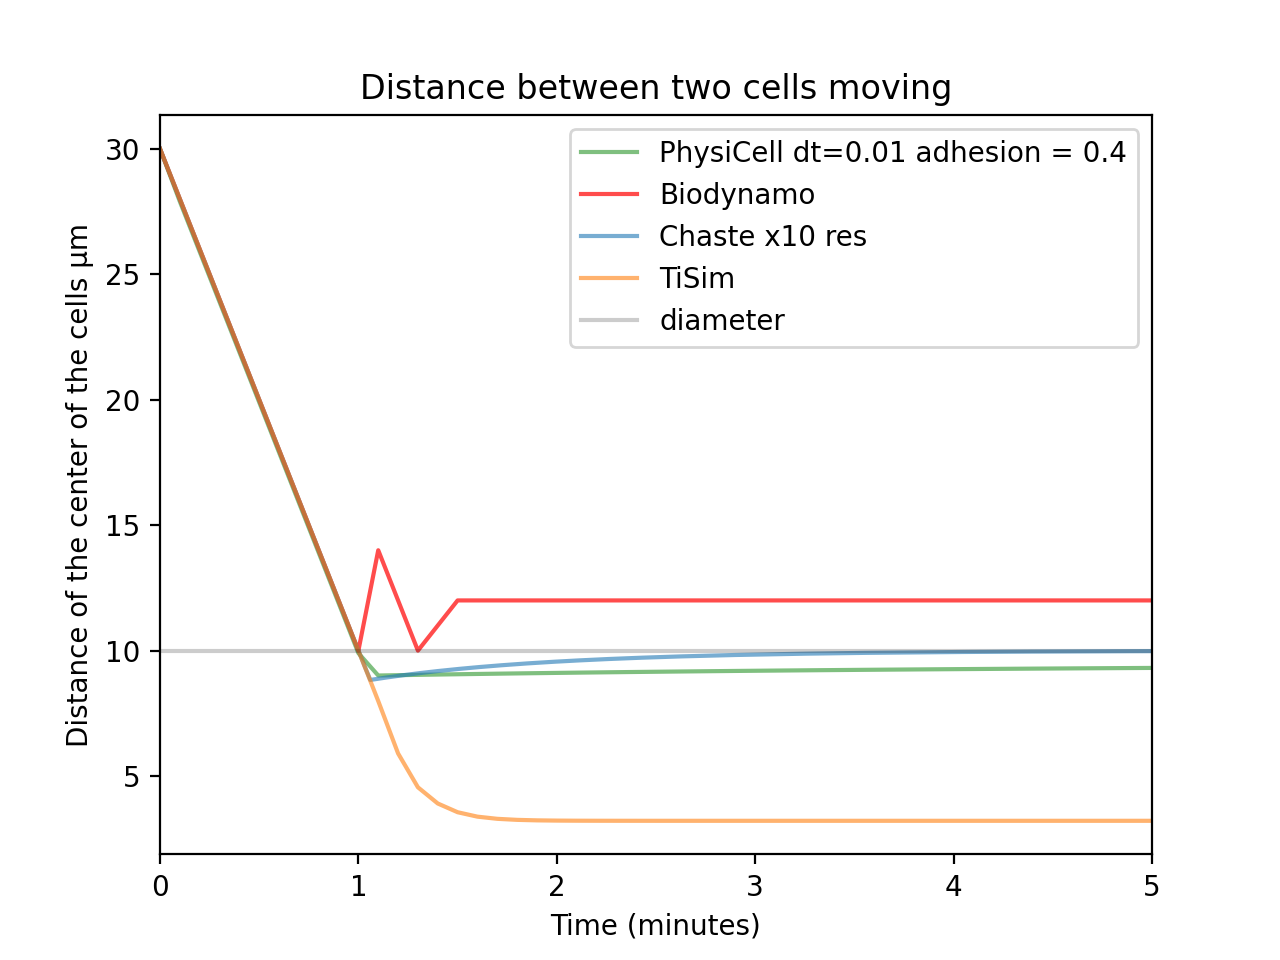
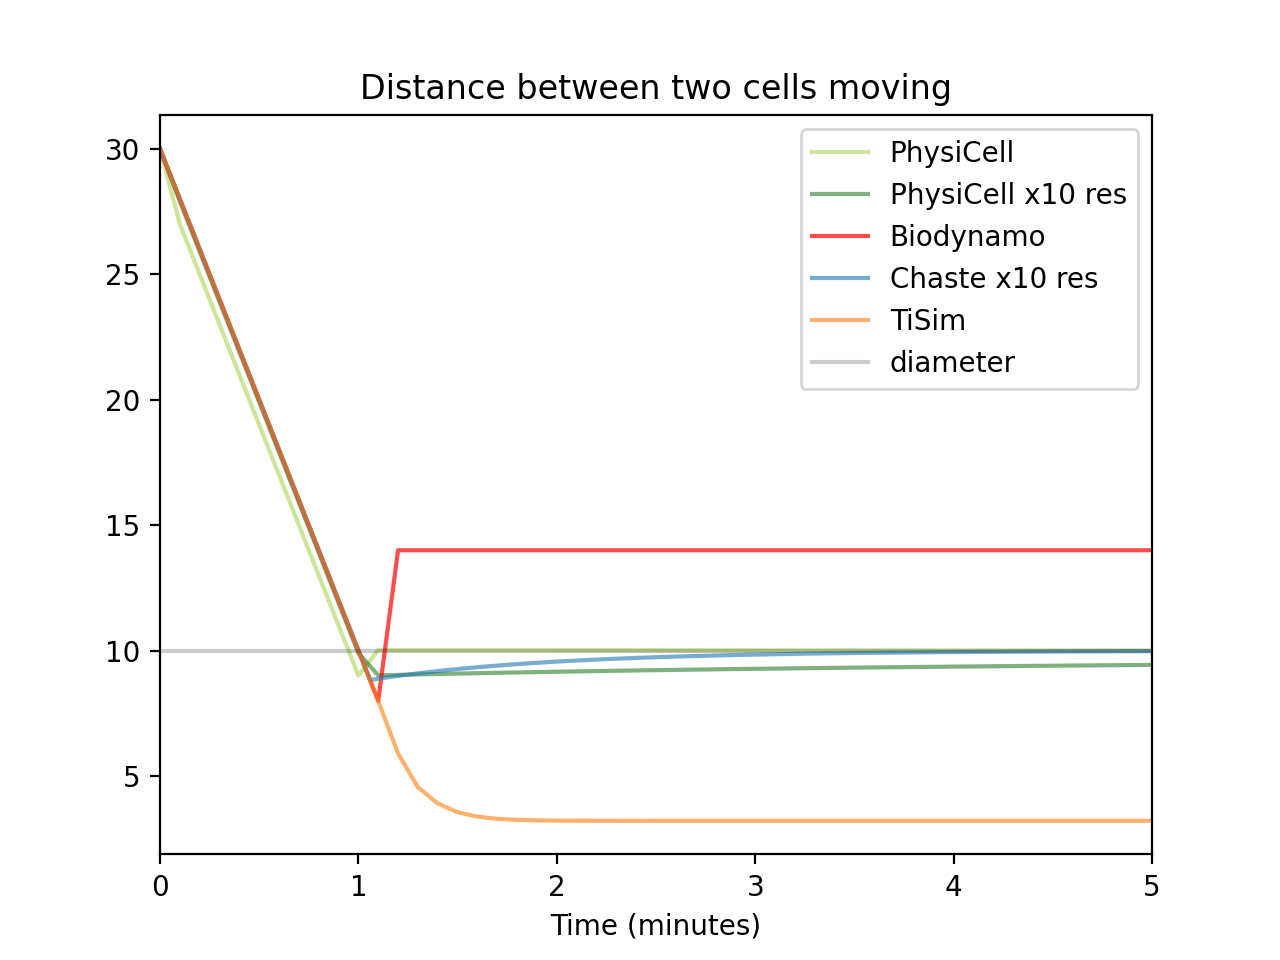
Adding new mechanics results from BDM and PC to the figure

diff --git a/ResultAnalysis/plot_scripts/plot_mechanics_pushing.py b/ResultAnalysis/plot_scripts/plot_mechanics_pushing.py
@@ -4,7 +4,7 @@ import numpy as np
 import os
 
 # Load data
-output_folder = "PhysiCell/results/mechanics_pushing/"
+output_folder = "PhysiCell/results/mechanics_pushing/mechanics_pushing_01_004/"
 df = pd.read_csv(output_folder + "cells_position_time.csv")
 x0 = df[df['id'] == 0]['x'].reset_index(drop=True)
 x1 = df[df['id'] == 1]['x'].reset_index(drop=True)
@@ -13,7 +13,16 @@ pc_dist_dt["dx"] = abs(x0 - x1)
 dt = df[df['id'] == 0]['dt'].reset_index(drop=True)
 pc_dist_dt["dt"] = dt
 
-file = "Biodynamo/unit_test_mechanics_pushing/results/positions.csv"
+output_folder = "PhysiCell/results/mechanics_pushing/mechanics_pushing_001_004/"
+df = pd.read_csv(output_folder + "cells_position_time.csv")
+x0 = df[df['id'] == 0]['x'].reset_index(drop=True)
+x1 = df[df['id'] == 1]['x'].reset_index(drop=True)
+pc_dist_dt2 = pd.DataFrame()
+pc_dist_dt2["dx"] = abs(x0 - x1)
+dt = df[df['id'] == 0]['dt'].reset_index(drop=True)
+pc_dist_dt2["dt"] = dt
+
+file = "Biodynamo/unit_test_mechanics_pushing/results_0.1/positions.csv"
 bd_dist = pd.read_csv(file, index_col=0, header=None, sep='\t|,', engine='python').rename(columns={1: "x1", 4: "x2"})
 new_row = pd.DataFrame([[-15, 0, 0, 15, 0, 0]], columns=bd_dist.columns)
 bd_dist = pd.concat([new_row, bd_dist], ignore_index=True)
@@ -25,13 +34,16 @@ ts_dist = pd.read_csv(file, index_col=None, header=0, names=['time', 'dx'])
 
 file = "Chaste/unit_test_mechanics_pushing/results/results.viznodelocations"
 ch_dist = pd.read_csv(file, header=None, sep='\t| ', index_col=0, engine='python')
-ch_dist['dx'] = abs(ch_dist[2] - ch_dist[1]) * 10
-ch_dist['dt'] = [x for x in np.arange(0, 10.01, 0.1)]
-ch_dist.index = ch_dist.index * 1000
+ch_dist['dx'] = abs(ch_dist[4] - ch_dist[1]) * 10
+# ch_dist['dt'] = [x for x in np.arange(0,10.01,0.1)]
+# ch_dist.index = ch_dist.index*1000
+ch_dist['dt'] = ch_dist.index * 60
+# ch_dist.index = ch_dist.index * 100
 
 # Set up colorblind-friendly colors and linestyles
 colors = {
-    'PhysiCell': '#4daf4a',   # Green
+    'PhysiCell': '#98FB98',   # Light Green
+    'PhysiCell2': '#4daf4a',   # Green
     'BioDynaMo': '#ff7f00',   # Orange (changed from red)
     'Chaste': '#377eb8',      # Blue
     'TiSim': '#984ea3',       # Purple
@@ -39,6 +51,7 @@ colors = {
 }
 linestyles = {
     'PhysiCell': '-',
+    'PhysiCell2': '-',
     'BioDynaMo': '-',
     'Chaste': '-',
     'TiSim': '-',
@@ -46,8 +59,9 @@ linestyles = {
 }
 labels = {
     'PhysiCell': 'PhysiCell',
+    'PhysiCell2': 'PhysiCell x10res',
     'BioDynaMo': 'BioDynaMo',
-    'Chaste': 'Chaste',
+    'Chaste': 'Chaste x10res',
     'TiSim': 'TiSim'
 }
 
@@ -179,35 +193,88 @@ plt.rcParams.update({
 # plt.close(fig2)
 
 # --- INDIVIDUAL NORMALIZED ZOOMED PLOT (First 3 min) ---
+# save_dir = "./ResultAnalysis/plots/mechanics_pushing_plots"
+# os.makedirs(save_dir, exist_ok=True)
+# cell_radius = 10.0
+
+# fig3, ax_norm_zoom = plt.subplots(figsize=(3, 2.8))
+# ax_norm_zoom.plot(bd_dist['dt'][bd_dist['dt'] <= 3], (bd_dist['dx'] / cell_radius)[bd_dist['dt'] <= 3], 
+#                   color=colors['BioDynaMo'],
+#                   linestyle=linestyles['BioDynaMo'], 
+#                   label=labels['BioDynaMo'], 
+#                   alpha=0.7)
+# ax_norm_zoom.plot(ch_dist['dt'][np.array(ch_dist['dt']) <= 3], (ch_dist['dx'] / cell_radius)[np.array(ch_dist['dt']) <= 3], 
+#                   color=colors['Chaste'], 
+#                   linestyle=linestyles['Chaste'], 
+#                   label=labels['Chaste'], 
+#                   alpha=0.7)
+# ax_norm_zoom.plot(pc_dist_dt['dt'][pc_dist_dt['dt'] <= 3], (pc_dist_dt['dx'] / cell_radius)[pc_dist_dt['dt'] <= 3], 
+#                   color=colors['PhysiCell'], 
+#                   linestyle=linestyles['PhysiCell'], 
+#                   label=labels['PhysiCell'],
+#                   alpha=0.7)
+# ax_norm_zoom.plot(pc_dist_dt2['dt'][pc_dist_dt2['dt'] <= 3], (pc_dist_dt2['dx'] / cell_radius)[pc_dist_dt2['dt'] <= 3], 
+#                   color=colors['PhysiCell2'], 
+#                   linestyle=linestyles['PhysiCell2'], 
+#                   label=labels['PhysiCell2'],
+#                   alpha=0.7)
+# ax_norm_zoom.plot(ts_dist["time"][ts_dist["time"] <= 3], (ts_dist['dx'] / cell_radius)[ts_dist["time"] <= 3], 
+#                   color=colors['TiSim'], 
+#                   linestyle=linestyles['TiSim'], 
+#                   label=labels['TiSim'], 
+#                   alpha=0.7)
+# ax_norm_zoom.axhline(1, color=colors['radius'], linestyle=linestyles['radius'], alpha=0.3)
+# ax_norm_zoom.set_ylabel("Distance / cell diam (μm)", labelpad=8, fontsize=12)
+# ax_norm_zoom.set_xlabel("Time (min)", labelpad=8, fontsize=12)
+# ax_norm_zoom.set_xlim(0, 3)
+# ax_norm_zoom.set_ylim(bottom=0)
+# ax_norm_zoom.spines['top'].set_visible(False)
+# ax_norm_zoom.spines['right'].set_visible(False)
+# ax_norm_zoom.grid(False)
+# ax_norm_zoom.tick_params(axis='both', which='major', labelsize=11)
+# ax_norm_zoom.legend(loc='upper right', bbox_to_anchor=(1, 1), fontsize=8)
+
+# plt.tight_layout()
+# plt.savefig(os.path.join(save_dir, "mechanics_movement_normalized_zoom3min.pdf"), format='pdf', bbox_inches='tight', pad_inches=0.1)
+# plt.savefig(os.path.join(save_dir, "mechanics_movement_normalized_zoom3min.svg"), format='svg', bbox_inches='tight', pad_inches=0.1)
+# plt.savefig(os.path.join(save_dir, "mechanics_movement_normalized_zoom3min.png"), dpi=600, bbox_inches='tight', pad_inches=0.1, format='png')
+# plt.close(fig3)
+
+# --- INDIVIDUAL NORMALIZED ZOOMED PLOT (First 5 min) ---
 save_dir = "./ResultAnalysis/plots/mechanics_pushing_plots"
 os.makedirs(save_dir, exist_ok=True)
 cell_radius = 10.0
 
-fig3, ax_norm_zoom = plt.subplots(figsize=(3, 2.8))
-ax_norm_zoom.plot(bd_dist['dt'][bd_dist['dt'] <= 3], (bd_dist['dx'] / cell_radius)[bd_dist['dt'] <= 3], 
+fig4, ax_norm_zoom = plt.subplots(figsize=(3, 2.8))
+ax_norm_zoom.plot(bd_dist['dt'][bd_dist['dt'] <= 5], (bd_dist['dx'] / cell_radius)[bd_dist['dt'] <= 5], 
                   color=colors['BioDynaMo'],
                   linestyle=linestyles['BioDynaMo'], 
                   label=labels['BioDynaMo'], 
                   alpha=0.7)
-ax_norm_zoom.plot(ch_dist['dt'][np.array(ch_dist['dt']) <= 3], (ch_dist['dx'] / cell_radius)[np.array(ch_dist['dt']) <= 3], 
+ax_norm_zoom.plot(ch_dist['dt'][np.array(ch_dist['dt']) <= 5], (ch_dist['dx'] / cell_radius)[np.array(ch_dist['dt']) <= 5], 
                   color=colors['Chaste'], 
                   linestyle=linestyles['Chaste'], 
                   label=labels['Chaste'], 
                   alpha=0.7)
-ax_norm_zoom.plot(ts_dist["time"][ts_dist["time"] <= 3], (ts_dist['dx'] / cell_radius)[ts_dist["time"] <= 3], 
-                  color=colors['TiSim'], 
-                  linestyle=linestyles['TiSim'], 
-                  label=labels['TiSim'], 
-                  alpha=0.7)
-ax_norm_zoom.plot(pc_dist_dt['dt'][pc_dist_dt['dt'] <= 3], (pc_dist_dt['dx'] / cell_radius)[pc_dist_dt['dt'] <= 3], 
+ax_norm_zoom.plot(pc_dist_dt['dt'][pc_dist_dt['dt'] <= 5], (pc_dist_dt['dx'] / cell_radius)[pc_dist_dt['dt'] <= 5], 
                   color=colors['PhysiCell'], 
                   linestyle=linestyles['PhysiCell'], 
                   label=labels['PhysiCell'],
                   alpha=0.7)
+ax_norm_zoom.plot(pc_dist_dt2['dt'][pc_dist_dt2['dt'] <= 5], (pc_dist_dt2['dx'] / cell_radius)[pc_dist_dt2['dt'] <= 5], 
+                  color=colors['PhysiCell2'], 
+                  linestyle=linestyles['PhysiCell2'], 
+                  label=labels['PhysiCell2'],
+                  alpha=0.7)
+ax_norm_zoom.plot(ts_dist["time"][ts_dist["time"] <= 5], (ts_dist['dx'] / cell_radius)[ts_dist["time"] <= 5], 
+                  color=colors['TiSim'], 
+                  linestyle=linestyles['TiSim'], 
+                  label=labels['TiSim'], 
+                  alpha=0.7)
 ax_norm_zoom.axhline(1, color=colors['radius'], linestyle=linestyles['radius'], alpha=0.3)
-ax_norm_zoom.set_ylabel("Distance / cell radius (μm)", labelpad=8, fontsize=12)
-ax_norm_zoom.set_xlabel("Time (minutes)", labelpad=8, fontsize=12)
-ax_norm_zoom.set_xlim(0, 3)
+ax_norm_zoom.set_ylabel("Distance / cell diam (μm)", labelpad=8, fontsize=12)
+ax_norm_zoom.set_xlabel("Time (min)", labelpad=8, fontsize=12)
+ax_norm_zoom.set_xlim(0, 5)
 ax_norm_zoom.set_ylim(bottom=0)
 ax_norm_zoom.spines['top'].set_visible(False)
 ax_norm_zoom.spines['right'].set_visible(False)
@@ -216,7 +283,7 @@ ax_norm_zoom.tick_params(axis='both', which='major', labelsize=11)
 ax_norm_zoom.legend(loc='upper right', bbox_to_anchor=(1, 1), fontsize=8)
 
 plt.tight_layout()
-plt.savefig(os.path.join(save_dir, "mechanics_movement_normalized_zoom3min.pdf"), format='pdf', bbox_inches='tight', pad_inches=0.1)
-plt.savefig(os.path.join(save_dir, "mechanics_movement_normalized_zoom3min.svg"), format='svg', bbox_inches='tight', pad_inches=0.1)
-plt.savefig(os.path.join(save_dir, "mechanics_movement_normalized_zoom3min.png"), dpi=600, bbox_inches='tight', pad_inches=0.1, format='png')
-plt.close(fig3)
+# plt.savefig(os.path.join(save_dir, "mechanics_movement_normalized_zoom3min.pdf"), format='pdf', bbox_inches='tight', pad_inches=0.1)
+# plt.savefig(os.path.join(save_dir, "mechanics_movement_normalized_zoom3min.svg"), format='svg', bbox_inches='tight', pad_inches=0.1)
+plt.savefig(os.path.join(save_dir, "mechanics_movement_normalized_zoom5min.png"), dpi=600, bbox_inches='tight', pad_inches=0.1, format='png')
+plt.close(fig4)
